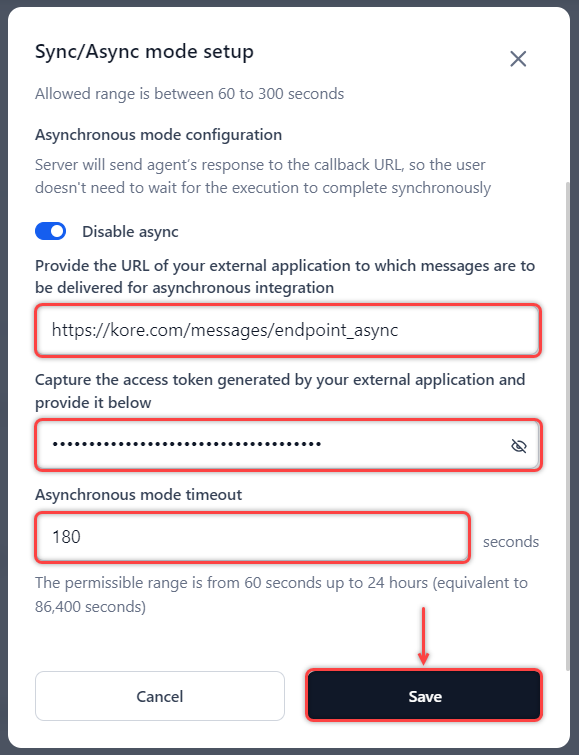
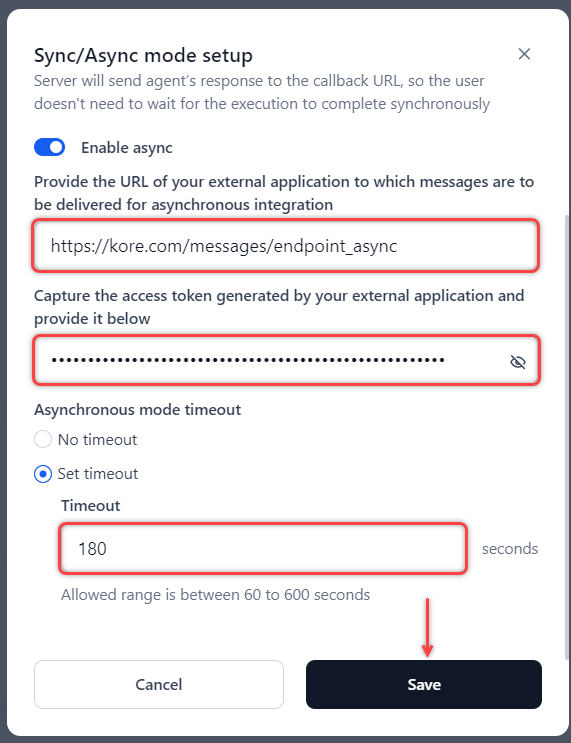
Updates for the latest changes (#58)
* Edited - Create an API Key

* API key generation edited

* Guardrails intro updated

* Guardrails overview edited

* minor edits

* further edits

* minor edits

* minor fixes

* minor edits

* Guardrails about page edits

* Add scanners

* Test Guardrails updated

* Guardrails' test resutls explained

* minor edits

* minor edits

* manage guardrails edited

* About Model's page edited

* Playground overview updated

* anout models and about plauground edited

* model settings

* updates

* format

* toc

* Administration changed to Settings

* few more

* updated home page

* Home page

* few more

* updated home page

* updated

* minor edits on home

* Minor edits

* monir edits

* minor edits to the home page

* minor edits to the home page

* updated properties of the div

* updated styles

* style update to home page

* frame size on the home page

* update

* commit: invite user edits

* update

* About models page learn more link updated

* home page changes

* Models deeper overview pages remvoed

* Agents pages updated based on the feedback

* minor edits

* copy of intro page

* updated video tag

* video tag

* video frame

* minor edits

* learn more link placement fixed

* v2

* edit

* broken link fixed

* path to agent flow

* configure agent

* agent configuration minor edits

* agent configurations

* Playground edits

* manage datasets

* edits

* Manage data

* intro page updated

* update

* images

* commit: added settings page content
[…]

Changed region(s): [[0.0298, 0.0, 1.0, 0.9906], [0.2382, 0.8977, 0.3275, 0.9596], [0.8634, 0.0619, 0.9229, 0.0929]]

diff --git a/docs/gale/getting-started/sign-up-sign-in.md b/docs/gale/getting-started/sign-up-sign-in.md
@@ -87,7 +87,7 @@ An account owner or master admin can perform the following functions:
 * Set up which users will receive email notifications when they are added to the admin’s account.
 * Manage guardrail scanners and configured integrations for the account.
 
-## New Account Sign-up and Activation
+## New Account Sign Up and Activation
 
 If you do not have an account on GALE, visit this home page [link](https://gale.kore.ai/){:target="_blank"} to sign up and follow the steps mentioned [here](./sign-up-sign-in.md/#steps-to-sign-up-and-activate-your-gale-account){:target="_blank"}.
 
@@ -112,7 +112,7 @@ Alternatively, enter your email address and click **Continue** to sign up via em
 
 <div class="admonition note">
 <p class="admonition-title">Note</p>
-<p>You can sign in and enter the password if the email address is registered.</p>
+<p>You can sign in by entering the password if the email address is registered.</p>
 </div>
 
 <div class="admonition warning">
@@ -126,12 +126,20 @@ Once the admin accepts your request via an invitation, you can complete the sign
 
 <ol start="3"><li>To sign up via email, enter your <b>Full Name</b> and <b>Password</b>, and click <b>Create Account</b>.</li></ol>
 
-<div class="admonition note">
-<p class="admonition-title">Note</p>
-<p>Ensure you set a strong password that follows all the requirements.</p>
-</div>
+<p>Ensure you set a strong password that includes the following:</p>
+<ul><li>A minimum of 12 characters.</li>
+<img src="../images/password-12-characters-long.png" alt="12 characters" title="12 characters" style="border: 1px solid gray; zoom:75%;"></ul>
+<ul><li>At least one special character.</li>
+<img src="../images/password-special-character.png" alt="special character" title="special character" style="border: 1px solid gray; zoom:75%;"></ul>
+<ul><li>At least one number.</li>
+<img src="../images/password-number-character.png" alt="number required" title="number required" style="border: 1px solid gray; zoom:75%;"></ul>
+<ul><li>At least one lower case character.</li>
+<img src="../images/password-lowercase-character.png" alt="lower case" title="lower case" style="border: 1px solid gray; zoom:75%;"></ul>
+<ul><li>At least one upper case character.</li>
+<img src="../images/password-uppercase-character.png" alt="strong password" title="strong password" style="border: 1px solid gray; zoom:75%;"></ul>
 
-<img src="../images/strong-password.png" alt="strong password" title="strong password" style="border: 1px solid gray; zoom:75%;">
+<p>If the password is strong (ideal), the following message is displayed, and the <b>Create Account</b> button is enabled.</p>
+<img src="../images/strong-password-set.png" alt="strong password" title="strong password" style="border: 1px solid gray; zoom:75%;">
 
 ### **Account Activation**
 
@@ -240,13 +248,15 @@ The password is reset successfully. On the [Sign In](./sign-up-sign-in.md/#sign-
 
 When your password expires, the system redirects to the following page where you can change the expired password.
 
-<img src="../images/change-password.png" alt="change password" title="change password" style="border: 1px solid gray; zoom:75%;">
+<img src="../images/change-password-screen.png" alt="change password" title="change password" style="border: 1px solid gray; zoom:75%;">
 
-To change the password, enter the expired password in the **Old Password** textbox and follow Steps 4 and 5 in the previous section. Please ensure the password value matches the **New password** and **Confirm password** fields.
+To change the password, enter the expired password in the **Old Password** textbox and follow Steps 4 and 5 in the previous section. Please ensure the password values in the **New password** and **Confirm password** fields match to enable the <b>Reset Password</b> button.
 
-A mismatch displays the following error message:
+<img src="../images/old-new-password-match.png" alt="passwords match" title="passwords match" style="border: 1px solid gray; zoom:75%;">
 
-<img src="../images/password-mismatch.png" alt="password mismatch" title="password mismatch" style="border: 1px solid gray; zoom:75%;">
+A mismatch in the **New password** and **Confirm password** fields displays an <b>Alert</b> icon against the mismatched field, while disabling the <b>Reset Password</b> button, as shown below:
+
+<img src="../images/old-new-password-mismatch.png" alt="passwords mismatch" title="passwords mismatch" style="border: 1px solid gray; zoom:75%;">
 
 ## GALE Landing Page
 

diff --git a/docs/gale/agents/agents-flows/types-of-nodes/api-node.md b/docs/gale/agents/agents-flows/types-of-nodes/api-node.md
@@ -23,17 +23,15 @@ Steps to add and configure the node:
     * **Type**: Select the API type from the drop-down list - REST or SOAP.
     * **Integration Type**: Select the integration type for the connection—synchronous or Asynchronous—and choose the timeout duration for the integration.
         * **Synchronous**: The allowed range is 5 to 180 seconds (3 minutes). The default is 60 seconds.
-        * **Asynchronous**: The allowed range is 60 seconds to 24 hours (86,400 seconds). The default is 60 seconds.
+        * **Asynchronous**: The allowed range is 30 seconds to 300 seconds (5 minutes). The default is 60 seconds.
 
         The node will trigger a timeout error if the request is not completed within the selected time frame.
 
-
-        !!! Note "Notes"
+        !!! Notes
 
             * The key difference between synchronous and asynchronous integration types is how the integration processes the request and response. Synchronous integrations block the client until the response is received, while asynchronous integrations allow the client to continue working while the integration processes the request.
             
             * Timeout precedence: Agent timeout > Node timeout > Third-party API endpoint timeout.
-
 
     * **Request Definition**: Define the details of the service request to make the call and fetch the data. Click **Define Request** and enter or select the following details in the Edit Request dialog box:  
     <img src="../images/api-node-edit-request.png" alt="Go to Flow Canvas" title="Go to Flow Canvas" style="border: 1px solid gray; zoom:80%;">

diff --git a/docs/gale/agents/deploy-an-agent.md b/docs/gale/agents/deploy-an-agent.md
@@ -45,8 +45,9 @@ Steps to deploy an agent:
 
     2. The **Sync/Async mode setup** pop-up displays with sync mode disabled by default. Enter the Synchronous mode timeout duration: The allowed range is 60 to 300 seconds (5 minutes). The default is 180 Seconds (3 minutes).
 
-    3. Turn on the **Enable async** toggle to configure the asynchronous mode. Provide a URL, an access token, and the asynchronous mode timeout duration. The allowed timeout range is 60 seconds to 24 hours (86,400 seconds). The default is 180 Seconds (3 minutes). The endpoint will trigger a timeout error if the request is not completed within the selected time frame.  
-    <img src="../images/async-mode-configuration.png" alt="Deploy Button" title="Deploy Button" style="border: 1px solid gray; zoom:60%;">
+    3. Turn on the **Enable async** toggle to configure the asynchronous mode. Provide a URL, an access token, and the asynchronous mode timeout duration. The allowed timeout range is 60 seconds to 600 seconds (10 minutes). The default is 180 Seconds (3 minutes). The endpoint will trigger a timeout error if the request is not completed within the selected time frame.  
+    <img src="../images/async-mode-configuration.png" alt="Async Mode Configuration" title="Async Mode Configuration" style="border: 1px solid gray; zoom:60%;">
+
 
         !!! note
 

diff --git a/docs/gale/agents/configure-an-agent.md b/docs/gale/agents/configure-an-agent.md
@@ -23,7 +23,7 @@ Steps to enable and configure the asynchronous mode:
 
 4. Turn on the **Enable async** toggle to configure the asynchronous mode if required and click **Save**.
 
-    * If you enable the asynchronous mode, provide a URL, an access token, and the asynchronous mode timeout duration. The allowed timeout range is 60 seconds to 24 hours (86,400 seconds). The default is 180 Seconds (3 minutes).  
+    * If you enable the asynchronous mode, provide a URL, an access token, and the asynchronous mode timeout duration. The allowed timeout range is 60 seconds to 600 seconds (10 minutes). The default is 180 Seconds (3 minutes).  
     <img src="../images/async-mode-configuration.png" alt="Async Mode Configuration" title="Async Mode Configuration" style="border: 1px solid gray; zoom:80%;">
 
 5. If you have changed the mode, you must redeploy the agent - go to **Agent endpoint** in the left navigation and click the **Deploy** button on the top-right corner of the page.
